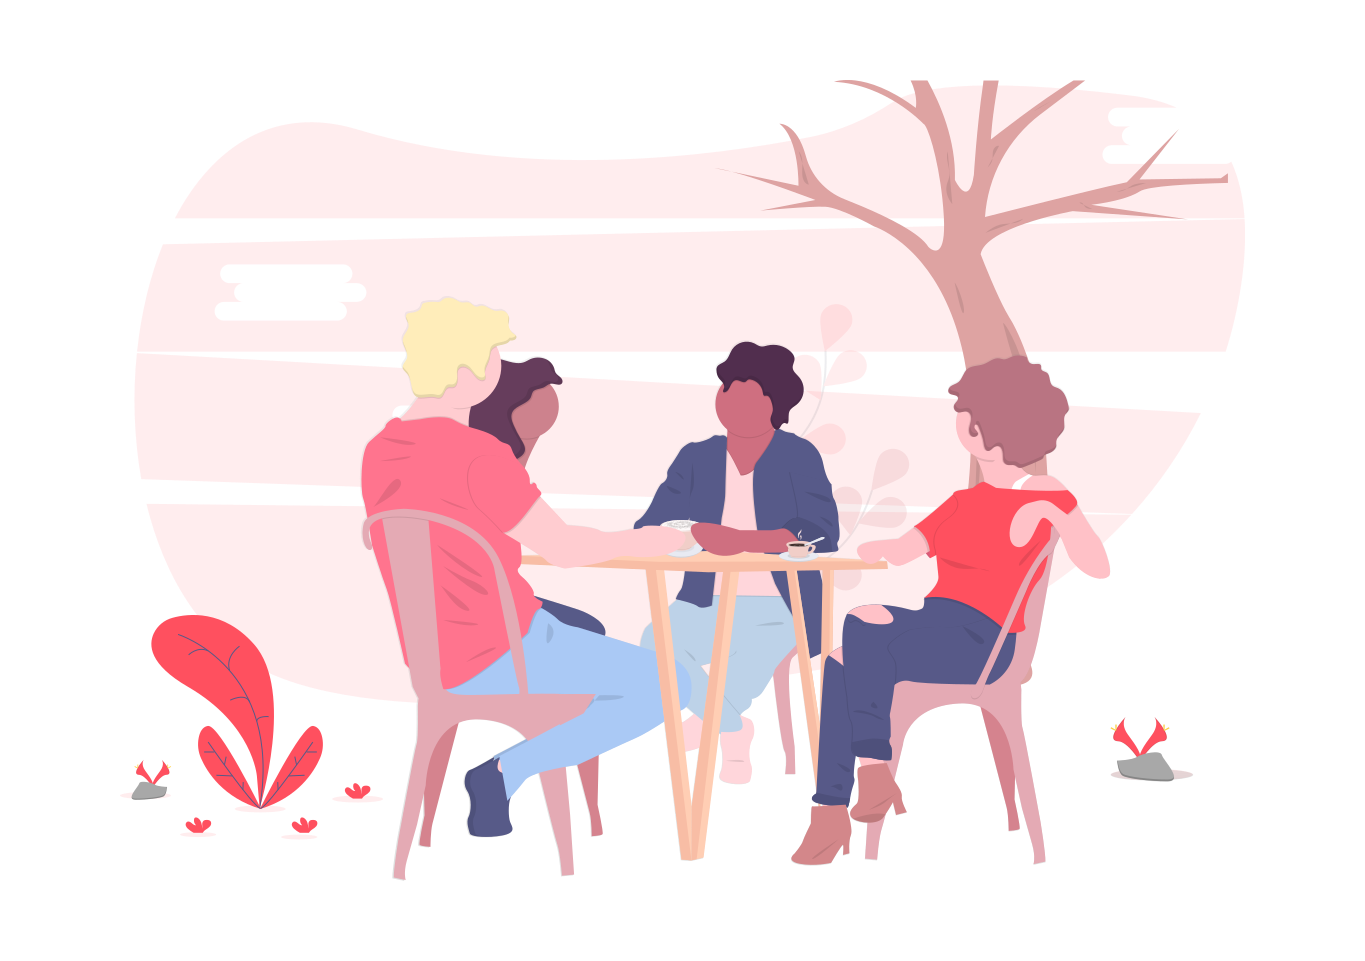
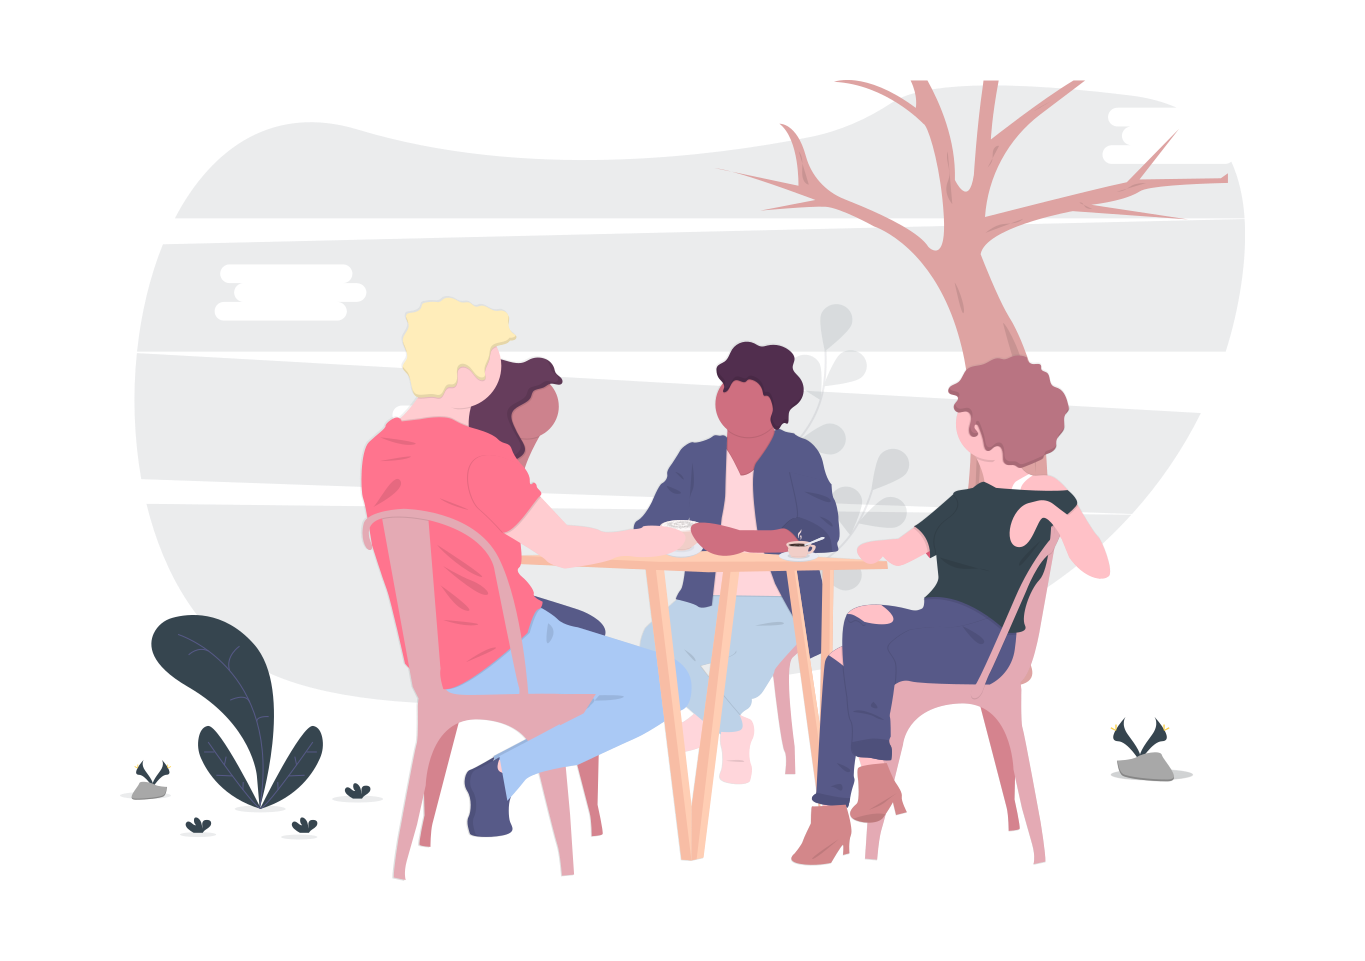
ui changed

diff --git a/lib/screens/pageViews/widgets/user_details_container.dart b/lib/screens/pageViews/widgets/user_details_container.dart
@@ -13,7 +13,34 @@ class UserDetailsContainer extends StatelessWidget {
 
   @override
   Widget build(BuildContext context) {
+    return Container(
+      child: Column(
+        children: <Widget>[
+          Container(
+            padding: EdgeInsets.only(bottom: 10),
+            decoration: BoxDecoration(
+                color: Color(0xff36454f),
+                borderRadius: BorderRadius.only(
+                    bottomLeft: Radius.circular(20),
+                    bottomRight: Radius.circular(20))),
+            child: CustomAppBar(
+              centerTitle: true,
+              title: Text("User Details"),
+            ),
+          ),
+          UserDetailsBody(),
+        ],
+      ),
+    );
+  }
+}
+
+class UserDetailsBody extends StatelessWidget {
+  @override
+  Widget build(BuildContext context) {
     final UserProvider userProvider = Provider.of<UserProvider>(context);
+    final NormalUser user = userProvider.getUser;
+    final FirebaseMethods firebaseMethods = FirebaseMethods();
 
     signOut() async {
       final bool isLoggedOut =
@@ -35,62 +62,53 @@ class UserDetailsContainer extends StatelessWidget {
     }
 
     return Container(
+      padding: EdgeInsets.symmetric(vertical: 40, horizontal: 20),
       child: Column(
-        children: <Widget>[
-          CustomAppBar(
-            centerTitle: true,
-            title: Text("User Details"),
-            actions: <Widget>[
-              FlatButton(
-                onPressed: () => signOut(),
-                child: Text(
-                  "Sign Out",
-                  style: TextStyle(color: Colors.white, fontSize: 12),
-                ),
-              )
-            ],
-          ),
-          UserDetailsBody(),
-        ],
-      ),
-    );
-  }
-}
-
-class UserDetailsBody extends StatelessWidget {
-  @override
-  Widget build(BuildContext context) {
-    final UserProvider userProvider = Provider.of<UserProvider>(context);
-    final NormalUser user = userProvider.getUser;
-
-    return Container(
-      padding: EdgeInsets.symmetric(vertical: 20, horizontal: 20),
-      child: Row(
         children: [
-          CachedImage(
-            user.profilePhoto,
-            isRound: true,
-            radius: 50,
-          ),
-          SizedBox(width: 15),
-          Column(
-            crossAxisAlignment: CrossAxisAlignment.start,
-            children: <Widget>[
-              Text(
-                user.name,
-                style: TextStyle(
-                  fontWeight: FontWeight.bold,
-                  fontSize: 18,
-                  color: Colors.black,
+          Row(
+            mainAxisAlignment: MainAxisAlignment.center,
+            children: [
+              Container(
+                width: 150.0,
+                height: 150.0,
+                decoration: BoxDecoration(
+                  image: DecorationImage(
+                      fit: BoxFit.cover,
+                      image: NetworkImage(user.profilePhoto)),
+                  borderRadius: BorderRadius.all(Radius.circular(75.0)),
                 ),
-              ),
-              SizedBox(height: 10),
-              Text(
-                user.email,
-                style: TextStyle(fontSize: 14, color: Colors.grey),
               ),
             ],
           ),
+          SizedBox(
+            height: 20,
+          ),
+          Text(
+            user.name,
+            style: TextStyle(fontSize: 22, color: Colors.black),
+          ),
+          SizedBox(
+            height: 15,
+          ),
+          Text(
+            user.email,
+            style: TextStyle(fontSize: 18, color: Colors.grey),
+          ),
+          SizedBox(
+            height: 20,
+          ),
+          GestureDetector(
+            onTap: () => signOut(),
+            child: Container(
+              padding: EdgeInsets.symmetric(vertical: 10, horizontal: 40),
+              child: Text('Logout',
+                  style: TextStyle(
+                      color: Colors.white, fontWeight: FontWeight.bold)),
+              decoration: BoxDecoration(
+                  color: Color(0xff36454f),
+                  borderRadius: BorderRadius.circular(20)),
+            ),
+          )
         ],
       ),
     );

diff --git a/lib/screens/chatScreen.dart b/lib/screens/chatScreen.dart
@@ -183,11 +183,23 @@ class _ChatScreenState extends State<ChatScreen> {
           bottomLeft: messageRadius,
         ),
       ),
-      child: Padding(padding: EdgeInsets.all(10), child: getMessage(message)),
+      child: Padding(
+          padding: EdgeInsets.only(right: 15, left: 25, top: 10, bottom: 10),
+          child: Column(
+            crossAxisAlignment: CrossAxisAlignment.end,
+            children: [
+              getMessage(message),
+              SizedBox(height: 5),
+              Text(
+                message.timestamp.toDate().toString().substring(11, 16),
+                style: TextStyle(color: Colors.grey),
+              )
+            ],
+          )),
     );
   }
 
-  getMessage(Message message) {
+  Widget getMessage(Message message) {
     return message.type != 'image'
         ? Text(
             message.message,
@@ -213,7 +225,19 @@ class _ChatScreenState extends State<ChatScreen> {
           bottomLeft: messageRadius,
         ),
       ),
-      child: Padding(padding: EdgeInsets.all(10), child: getMessage(message)),
+      child: Padding(
+          padding: EdgeInsets.only(right: 25, left: 15, top: 10, bottom: 10),
+          child: Column(
+            crossAxisAlignment: CrossAxisAlignment.start,
+            children: [
+              getMessage(message),
+              SizedBox(height: 5),
+              Text(
+                message.timestamp.toDate().toString().substring(11, 16),
+                style: TextStyle(color: Colors.grey),
+              )
+            ],
+          )),
     );
   }
 
@@ -337,7 +361,7 @@ class _ChatScreenState extends State<ChatScreen> {
                 color: Color(0xff36454f),
                 shape: BoxShape.circle,
               ),
-              child: Icon(Icons.add),
+              child: Icon(Icons.add, color: Colors.white),
             ),
           ),
           SizedBox(

diff --git a/lib/screens/pageViews/widgets/last_message_container.dart b/lib/screens/pageViews/widgets/last_message_container.dart
@@ -21,14 +21,25 @@ class LastMessageContainer extends StatelessWidget {
             Message message = Message.fromMap(docList.last.data());
             return SizedBox(
               width: MediaQuery.of(context).size.width * 0.6,
-              child: Text(
-                message.message,
-                maxLines: 1,
-                overflow: TextOverflow.ellipsis,
-                style: TextStyle(
-                  color: Colors.grey,
-                  fontSize: 14,
-                ),
+              child: Row(
+                mainAxisAlignment: MainAxisAlignment.spaceBetween,
+                children: [
+                  Text(
+                    message.message.length > 25
+                        ? message.message.substring(0, 25) + '..'
+                        : message.message,
+                    maxLines: 1,
+                    overflow: TextOverflow.ellipsis,
+                    style: TextStyle(
+                      color: Colors.grey,
+                      fontSize: 14,
+                    ),
+                  ),
+                  Text(
+                    message.timestamp.toDate().toString().substring(11, 16),
+                    style: TextStyle(color: Colors.grey),
+                  )
+                ],
               ),
             );
           }

diff --git a/lib/screens/loginScreen.dart b/lib/screens/loginScreen.dart
@@ -42,15 +42,11 @@ class _LoginScreenState extends State<LoginScreen> {
   @override
   Widget build(BuildContext context) {
     return Scaffold(
+        backgroundColor: Colors.white,
         body: Center(
             child: Container(
                 height: (MediaQuery.of(context).size.height),
                 width: (MediaQuery.of(context).size.width),
-                decoration: BoxDecoration(
-                    image: DecorationImage(
-                        image:
-                            ExactAssetImage('assets/img/loginBackground.png'),
-                        fit: BoxFit.cover)),
                 child: Center(
                   child: Padding(
                     padding: const EdgeInsets.only(top: 100),
@@ -60,7 +56,7 @@ class _LoginScreenState extends State<LoginScreen> {
                           'PickUp',
                           textAlign: TextAlign.center,
                           style: TextStyle(
-                              color: Color(0xFF9F2B5C),
+                              color: Color(0xff36454f),
                               fontSize: 48,
                               fontFamily: 'Pacifico'),
                         ),
